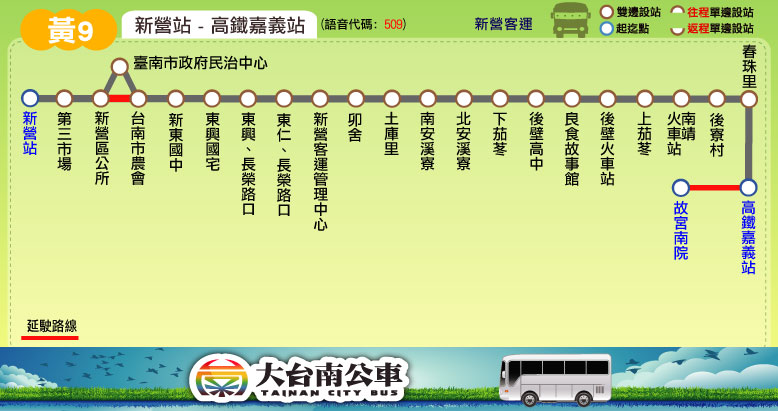
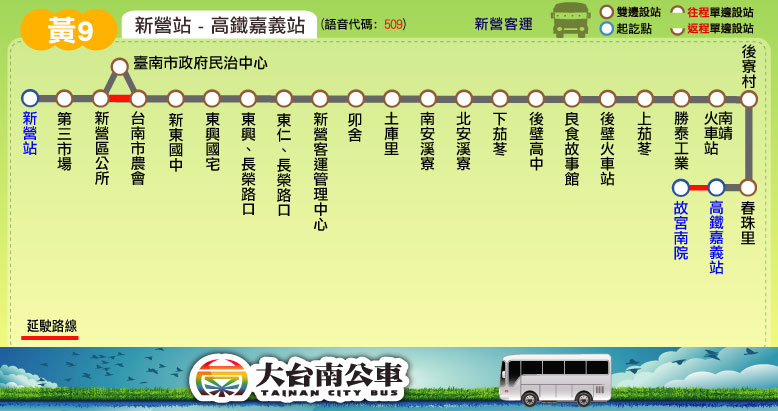
新增站位：黃9(增「勝泰工業」站)

diff --git a/route/fare_and_time/yellow_9.js b/route/fare_and_time/yellow_9.js
@@ -4,7 +4,7 @@ yellow_9_interval_stop = [ // 2015.08.31 checked
 "東興、長榮路口","東仁、長榮路口","新營客運管理中心","卯舍","土庫里"], // 新營
 ["南安溪寮","北安溪寮","下茄苳"], // 南安溪寮
 ["後壁高中","良食故事館","後壁火車站"], // 後壁火車站
-["上茄苳"], // 上茄苳
+["上茄苳","勝泰工業"], // 上茄苳
 ["南靖火車站"], // 南靖火車站
 ["後寮村","春珠里"], // 後寮村
 ["高鐵嘉義站"], // 高鐵嘉義站
